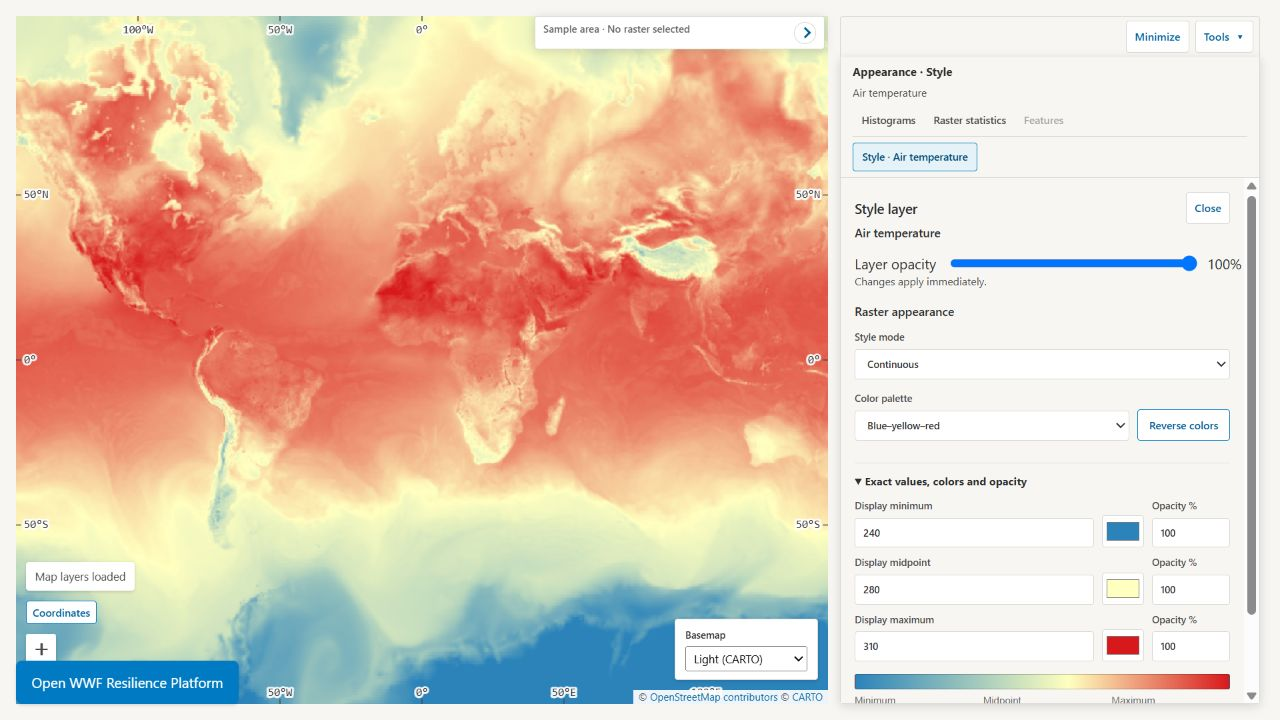
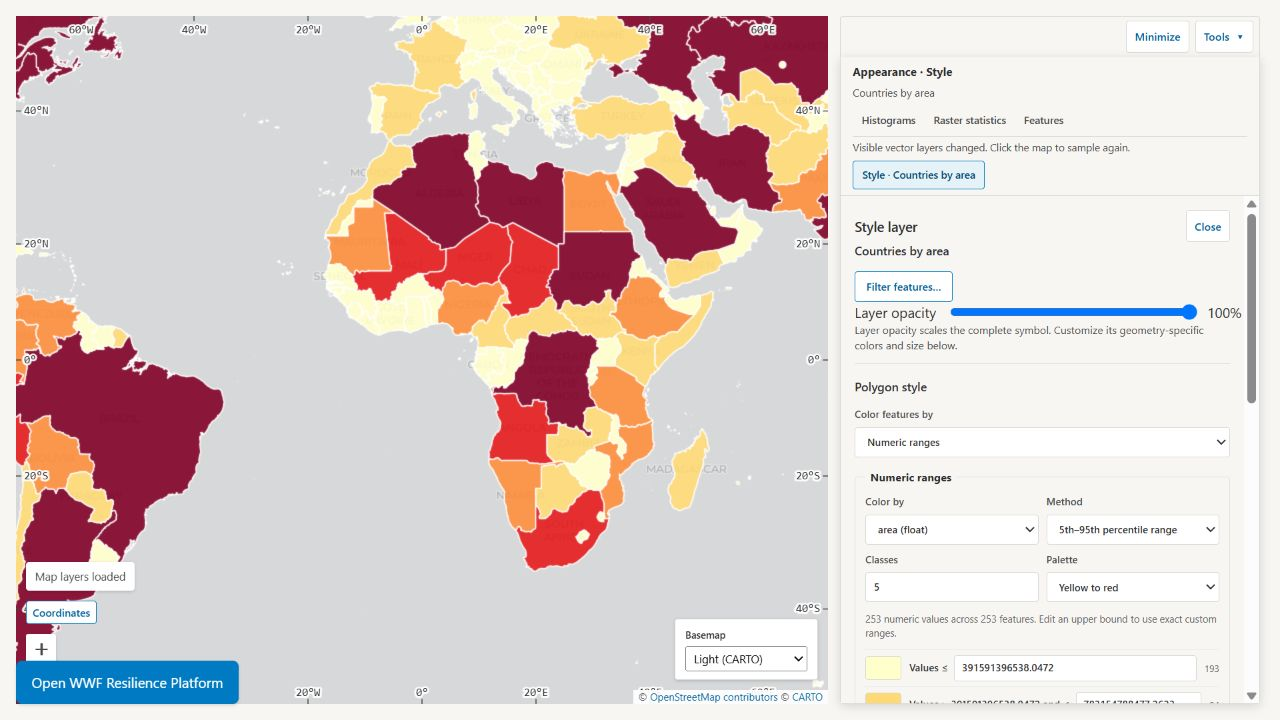
Vary README maps and keep the tour focused on users

diff --git a/README.md b/README.md
@@ -8,10 +8,10 @@ It is especially useful for workshops and collaborative analysis. A facilitator
 can publish the participants' datasets once, and everyone can explore the same
 material in real time without installing a desktop GIS or creating an account.
 
-![A weather map in EOLab with controls for choosing the variable, month and observation time](docs/images/eolab-temporal-map.jpg)
+![Green aboveground-biomass shading with orange corridor polygons over Sabah, alongside the map's layers and legend](docs/images/eolab-biomass-corridors.jpg)
 
-*Explore an observation on the map, then choose another date or variable from
-the same dataset.*
+*Combine a biomass map with corridor polygons to explore the landscape around
+the places you are studying.*
 
 ## What can you do with EOLab
 
@@ -85,10 +85,10 @@ Open **Style** to bring out the pattern you care about:
 - For vectors, use one symbol, categories, or numeric classes with editable
   breaks. Turn on **Show labels** when names or values help explain the map.
 
-![A raster style editor beside the map it colors](docs/images/eolab-dynamic-styling.jpg)
+![Country polygons colored from yellow to red by area, beside their numeric-class styling controls](docs/images/eolab-dynamic-styling.jpg)
 
-*Adjust the color range to reveal differences in the data. Styling changes the
-appearance of your map, leaving the original values intact.*
+*Choose class breaks and colors to reveal differences between polygons.
+Styling changes the appearance of your map, leaving the original values intact.*
 
 ### Explore what is under the pointer
 
@@ -99,19 +99,9 @@ For visible vectors, EOLab highlights the features under the click and opens
 their attributes in **Feature inspector**. Use **Previous** and **Next** when
 several features overlap. Clicking empty space does not open an empty result.
 
-For rasters, inspect the value at the clicked pixel or open **Histograms** to
-see how values are distributed within a sampling box. Move or resize the box
-to explore another area:
-
-- **1D** mode shows distributions for the active visible rasters.
-- **2D** mode compares the top two visible continuous rasters and marks them
-  **X** and **Y** in Map layers. Reorder those layers to change the pair, or swap
-  the axes in the analysis panel. Other layers stay in Map layers but are
-  temporarily hidden from the map while 2D mode is active.
-
-A two-variable map combines the X and Y values in one color, helping you
-locate combinations such as high values in both layers. Returning to **1D**
-restores the individual raster styles.
+For rasters, inspect the value at the clicked pixel or open **Histograms** in
+**1D** mode to see how values are distributed within a sampling box. Move or
+resize the box to explore another area. Each visible raster has its own chart.
 
 Use **Axes & scale** to inspect a useful range or switch to logarithmic axes
 when values span several orders of magnitude. These controls change the chart
@@ -119,10 +109,31 @@ display. They do not change the sampled data or the map's colors. Categorical
 rasters show named classes and their ground areas when a matching sample is
 available.
 
-![A raster histogram beside its sampling box on the map](docs/images/eolab-histograms.jpg)
+![A magenta drought-severity map over Asia with a blue sampling box and its one-dimensional histogram](docs/images/eolab-histograms.jpg)
 
-*The box identifies the sampled area; the histogram shows which values are
-common there. Use Raster statistics for calculated area totals and formulas.*
+*Explore July 2022 drought-severity values across Asia. The box identifies the
+sampled area; the histogram shows which values are common there.*
+
+### Compare two rasters
+
+Choose **2D** in Histograms to compare the top two visible continuous rasters.
+Map layers marks them **X** and **Y**. Reorder the rasters to choose the pair,
+or swap the axes in the analysis panel. Other layers stay in Map layers but are
+temporarily hidden while the comparison is active.
+
+The joint histogram shows which pairs of values occur together within the same
+sampling area. A coordinated map palette combines both rasters in one color,
+helping you locate those combinations on the map.
+
+![A blue-and-rose bivariate map of Sabah beside a joint histogram of human modification and aboveground biomass, with distributions along both axes](docs/images/eolab-bivariate.jpg)
+
+*Compare human modification and biomass in the same 100 km sampling window.
+Larger squares show more common combinations; the outer histograms
+show each raster's distribution.*
+
+Adjust the palette and each raster's color range to explore the comparison.
+Returning to **1D** restores the individual raster styles. Use **Raster
+statistics** when you need calculated area totals or formulas.
 
 ### Measure an area and compare rasters
 
@@ -158,6 +169,11 @@ dataset. Search with `type:temporal`, add a dataset, and choose its **Variable**
 **Month** and **Date and time (UTC)** in Map layers. Only available observations
 are listed. **Add another view** lets you compare dates or variables with
 independent styles.
+
+![Blue hourly precipitation over the Atlantic and Africa, with controls for the variable, month and UTC observation time](docs/images/eolab-temporal-map.jpg)
+
+*Follow changing weather by choosing another hour or variable from the same
+dataset. Here, blue shading shows rainfall at one available observation time.*
 
 To go beyond one observation, open **Tools → Models**:
 
@@ -234,57 +250,28 @@ them in a shared layer when collaborators need to see them.
 
 ### Run a model and explore its results
 
-Open **Tools → Models**, choose a model, select its inputs and area, then choose
-**Run model** (or **Run analysis** for the temporal tools). You can keep using
-the map while it works. **Runs** shows progress, completed results and **Cancel
-run**; closing the panel does not cancel a calculation.
+Open **Tools → Models** to choose from the available models:
 
-| Model | What you can do |
-| --- | --- |
-| Raster summary | Calculate statistics and formulas for a selected raster and area; download the values. |
-| Raster clip | Download the part of a raster you need as a GeoTIFF. |
-| Map for a period | Turn observations over a date range into a summary map. |
-| Time series for an area | Download a statistic for each available observation in an area. |
-| Downstream ecosystem beneficiaries | Map downstream coverage from a starting area and summarize a values layer within it. |
-| Habitat condition | Compare observed habitat conditions with those expected from selected reference sites. |
+- **Raster summary** — calculate a statistic or formula for a raster and area.
+- **Raster clip** — download the part of a raster you need as a GeoTIFF.
+- **Map for a period** — summarize observations over a date range into a map.
+- **Time series for an area** — download a statistic for each observation in
+  your chosen area.
+- **Downstream ecosystem beneficiaries** — map downstream coverage from
+  selected starting areas and summarize a layer such as population within it.
+- **Habitat condition** — compare observed conditions with those expected from
+  selected reference sites, using the Montana Prairie model.
 
-For **Downstream ecosystem beneficiaries**, choose a **Starting mask** from a
-Catalog or uploaded polygon layer, or a Catalog raster whose positive cells
-mark the starting locations, then choose **Values to summarize**. For example,
-explore downstream coverage from restoration areas and summarize a population
-layer within that coverage.
-The selected starting areas are combined into one calculation. Inspect the
-coverage map, masked values and statistics together; downstream coverage alone
-does not demonstrate a measured benefit to everyone within it.
+Choose the inputs and area, then select **Run model** (or **Run analysis** for
+the temporal tools). Follow progress in **Runs** while continuing to use the
+map. Closing the panel does not cancel work; use **Cancel run** to stop it.
 
-![The downstream model setup with starting-area and values-layer choices](docs/images/eolab-downstream-model.jpg)
-
-*Choose where the calculation starts and what to summarize downstream.*
-
-**Habitat condition** needs an analysis area, reference sites and raster inputs.
-Choose reference sites from a Catalog or uploaded polygon layer, or a raster
-whose cells equal to 1 mark the reference sites. Choose your own rasters or
-**Original model inputs from Earth Engine** when the deployment is configured
-for it. The first Earth Engine run downloads inputs;
-later matching runs reuse them. **Reference similarity** ranges from 0 to 1.
-Its interpretation depends on your reference sites and scientific settings;
-the current configuration follows the Montana Prairie model and is not a
-universally validated habitat-quality score. A known display problem affects
-its EPSG:6933 output in GeoServer; calculation results can still be downloaded
-([tracked here](https://github.com/springinnovate/eolab/issues/1002)).
-
-Completed raster results offer **Show on map** where supported and **Download**.
-Once on the map, use the usual styling and analysis tools. Some raster inputs
-also let you choose an unexpired result from a previous run; use **Refresh
-results** or **Load older results** to find it. Supported choices depend on the
-input: for example, the downstream starting mask requires a Catalog raster or
-a Catalog/uploaded polygon layer.
-
-Use **Duplicate with changes** to repeat a run with different inputs. Runs and
-their files belong to your browser session and have expiry dates. **Keep for
-another 7 days** extends retention; download files you need to keep outside
-EOLab. A map link does not preserve a run or make its private outputs available
-to someone else.
+Download completed results or choose **Show on map** where offered. Some raster
+inputs also accept results from earlier runs. **Duplicate with changes** lets
+you repeat a run with different choices. Runs belong to your browser session
+and have expiry dates: **Keep for another 7 days** extends retention. Download
+files you want to keep, since a map link does not preserve the run or share its
+private outputs.
 
 ### Share your map
 
@@ -299,73 +286,10 @@ The browser also remembers the last valid map on that deployment. **Reset
 view** returns to an empty map and the configured starting position. **Undo
 reset** restores the immediately previous map.
 
-Map links do not include private local polygons, editing credentials,
+Map links do not include private local polygons, editing access,
 histogram results, feature plots or processing jobs. Private uploads remain
-private, and model-result previews must be reopened from **Runs**. Maps refer
-to the deployment's current sources; missing data can prevent full restoration.
-
-## Add your own data
-
-For private polygon files, use [Polygon uploads](#bring-your-own-polygons).
-To make datasets available to everyone, an operator adds them to the
-deployment's configured, read-only data directory. Treat admitted datasets as
-immutable; publish changed data under a new identity. Temporal archives use the
-update-and-refresh workflow below.
-
-1. Prepare georeferenced GeoTIFFs and vector datasets before the session.
-2. Copy them into the deployment's mounted data directory.
-3. Open **Status**, find the Catalog section, and select **Scan directories**.
-4. Review any dataset-specific errors without interrupting successful files.
-5. Search for a representative raster and vector, add both to the map, and
-   verify their bounds and appearance.
-
-To prepare single-band rasters, run [prepare_rasters.py](scripts/prepare_rasters.py)
-with a Python environment containing GDAL's `osgeo` bindings (GDAL 3.10 or newer):
-
-```sh
-python scripts/prepare_rasters.py "input/*.tif" another.tif --destination prepared
-```
-
-It creates EPSG:3857 Cloud Optimized GeoTIFFs named `<name>_cog_epsg3857.tif`,
-with compression and overviews. Existing outputs are skipped. Quote glob patterns
-so the script expands them consistently across shells; multiple files and patterns
-can be combined. From the `scripts` directory, use `python prepare_rasters.py`.
-Nearest-neighbor resampling is the default; use `--resampling bilinear` for
-continuous data when appropriate. GDAL chooses the projected pixel size and
-retains the input data type. Failed conversions are reported and can be retried
-by rerunning the command. Distinct inputs must have distinct filename stems.
-The destination filesystem must support hard links (for example, NTFS or ext4)
-so completed files can be published without overwriting another batch's output.
-
-Scanning again updates files that are still present and removes Catalog items
-whose mounted source files have disappeared. The source mount remains
-read-only; EOLab stores Catalog metadata and generated GeoServer configuration
-elsewhere.
-
-Temporal archives contain prepared GeoTIFF observations and a read-only SQLite
-catalog exposing the `observations` view. Copy the complete archive into the
-mount with its [dataset.yaml descriptor](docs/dataset-examples/dataset.yaml),
-using `source.format: temporal_cog` and a unique dataset `id`, then scan.
-The archive appears as one temporal Catalog item; its folder contents are not
-indexed separately. Admission reads observation metadata without opening each
-GeoTIFF. Missing observations are valid.
-
-Observations share one north-up grid. Publish completed GeoTIFFs before
-exposing them in the archive's observation catalog. The
-[example temporal item](docs/dataset-examples/era5.item.json) and
-[source-access tests](tests/test_temporal_source_access.py) show the metadata
-and executable requests without duplicating them here.
-
-Update files only between calculations and rescan before using the updated
-data. A failed refresh reports an error and keeps the last valid metadata;
-correct the source and complete a successful scan before continuing.
-
-Rendering mounted rasters expects prepared, georeferenced, single-band GeoTIFFs.
-EOLab does not rewrite or optimize them during scanning. Temporal map views
-publish the selected original GeoTIFF through the same GeoServer pipeline. Mounted
-Shapefiles and spatial GeoPackage layers can be added to the map. Other
-recognized vector containers may be searchable in the Catalog even when they
-are not yet renderable.
+private, and model-result previews must be reopened from **Runs**. Maps use the
+site's current datasets; missing data can prevent full restoration.
 
 ## Running your own EOLab workspace
 
@@ -391,92 +315,6 @@ revision.
 Back up persistent volumes before upgrades. Run one `processing-worker`
 container and stop the previous one before replacing it: worker startup
 interrupts unfinished jobs. Deleting volumes deletes their stored data.
-
-### Upgrade an older published map
-
-Maps saved before removal of Catalog `sourceRevision` fields need a one-time
-conversion. The [migration command](src/eolab_app/saved_maps/migrate.py) previews
-one named map by default. It removes only those fields, preserves the map URL,
-layer order, styles and shared-polygon invitations, and never changes polygons
-or contributor ownership. Other incompatible formats cause an error with no
-changes; this command does not convert historical raster styles or URL-fragment
-links. Run it separately for each affected published map.
-
-For `/maps/nhi-site-condition-mapper`, use the following during a maintenance
-window. Have contributors finish saving first. Keep the same database volume,
-domain and browser cookies. Build the new application image containing this
-command, but stop the old app and worker before applying it: the old app still
-requires the removed fields.
-
-```sh
-docker compose stop app processing-worker
-docker compose exec -T database pg_dump -U eolab -d eolab --format=custom --file=/tmp/eolab-before-map-upgrade.dump
-docker compose cp database:/tmp/eolab-before-map-upgrade.dump ./eolab-before-map-upgrade.dump
-docker compose run --rm --no-deps --entrypoint python app -m eolab_app.saved_maps.migrate --slug nhi-site-condition-mapper
-```
-
-Keep the backup outside container storage and test restoring it to a separate
-database before proceeding. The preview reports `changed_layers`, `revision`
-and `applied: false`. Review the count, then replace `REVISION` below with that
-preview's revision. A conflicting edit requires a new preview. A successful
-change increments the map revision once; repeating it is a no-op.
-
-```sh
-docker compose run --rm --no-deps --entrypoint python app -m eolab_app.saved_maps.migrate --slug nhi-site-condition-mapper --apply --expected-revision REVISION
-```
-
-Complete the deployment using the new images, then open the original shared-map
-URL and check its layers, polygon counts and contributor editing access before
-reopening the workshop. In Coolify, use the equivalent commands in the existing
-deployment with its original persistent volumes; do not create a new deployment
-with an empty database. Keep the old image available for rollback.
-
-If verification fails while the maintenance window is still closed, stop the
-new app and worker, restore the database backup, and restart the old images.
-For example, after copying the backup back into the database container:
-
-```sh
-docker compose cp ./eolab-before-map-upgrade.dump database:/tmp/eolab-before-map-upgrade.dump
-docker compose exec -T database pg_restore -U eolab -d eolab --clean --if-exists --single-transaction --exit-on-error /tmp/eolab-before-map-upgrade.dump
-```
-
-A full restore replaces changes made since the backup, so do not use this
-rollback after contributors have resumed editing without reconciling that work.
-
-### Configure models
-
-The downstream model's DEM, watershed layer and topology fields are configured
-in its [bundled YAML recipe](src/eolab_app/processing/recipes/downstream-beneficiaries.yaml),
-under `steps[0].inputs.hydrology.value`. Set these Catalog references for your
-deployment before building it. The pit-filling search cutoff is in
-`steps[0].inputs.settings.value.pit_fill_search_limit` in the same recipe;
--1 and 0 allow unlimited searches.
-
-Habitat condition can fetch its original scientific inputs from Earth Engine
-inside a model run. Set `EOLAB_HABITAT_EARTH_ENGINE_PROJECT` and
-`EOLAB_HABITAT_EARTH_ENGINE_CREDENTIALS_FILE` in Compose. Place the service-account
-JSON key in the dedicated `habitat-credentials` volume, readable by the worker's
-`eolab` user. Compose mounts that volume read-only at `/run/habitat-credentials`
-in `processing-worker` only. For a file named `service-account-key.json`, set the
-credential path to `/run/habitat-credentials/service-account-key.json`. Use a
-separate `EOLAB_HABITAT_CREDENTIALS_VOLUME_NAME` for each deployment. Keep the key
-outside Catalog data and the repository; never put it in browser configuration.
-Leave the project and credential-path settings blank to use only manually
-selected rasters.
-
-For a first Habitat demonstration, use a representative Montana area and 2018,
-with enough reference coverage for the configured spatial validation. The
-[model integration tests](tests/test_habitat_earth_engine_model.py) provide an
-executable request and result example. Downloaded inputs use nearest-neighbor
-resampling; the preparation grid and selected masks' resampling methods remain
-explicit choices in the model setup.
-
-Habitat keeps completed input tiles under `PROCESSING_DATA_PATH/habitat-cache`,
-beside run files on the same filesystem for atomic publication. Tiles survive run
-expiry and restart; administrators may remove the cache only while no calculations
-use it. Concurrent cold requests may both download a tile; the first completed
-publication wins. Run cleanup removes temporary band views and aligned rasters,
-not cached tiles.
 
 EOLab is open-source software under the [Apache License 2.0](LICENSE). Bivariate
 palette definitions originate in the
